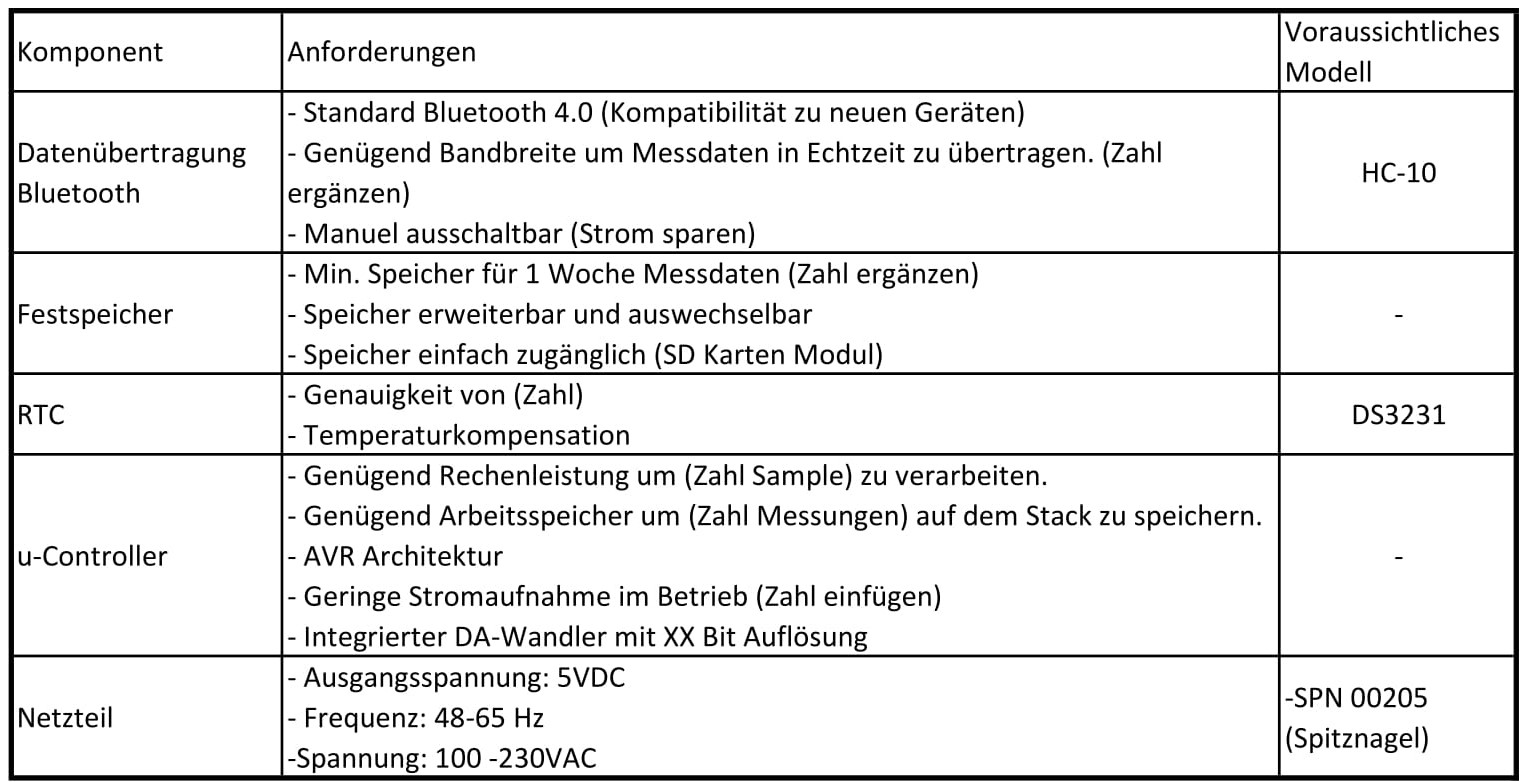
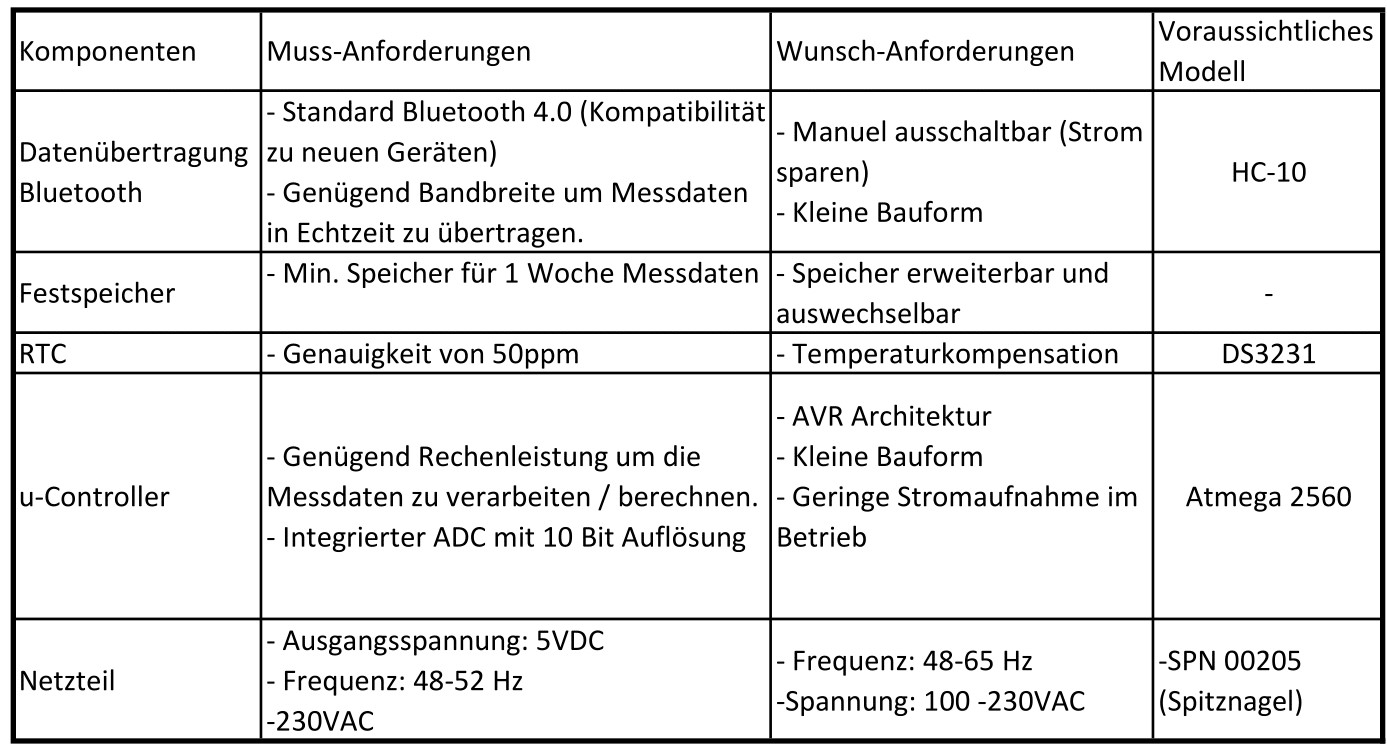
Pflichtenheft Textanpassung
Bild Komponenten
Rechtschreibung 1.0

diff --git a/Latech/Pfl.Heft.tex b/Latech/Pfl.Heft.tex
@@ -66,8 +66,9 @@ Der orange Rahmen stellt das Gehäuse des Gerätes dar, die weissen Felder stehe
 \item Durch ein Kunststoffgehäuse muss die Schutzart IP 20 gewährleistet werden.
 \item Wenn das Gerät nicht der Schutzklasse 2 entspricht muss eine Potenzialtrennung vorhanden sein.
 \item Die Messung muss für Û=325V und Î=15A (Netzspannung) ausgelegt sein.
+\item Messbereich bis 1A $\pm2W$; bis 10A $\pm 20W$
 \item Harmonische Schwingungen bis 5kHz müssen detektiert werden.
-\item Der Log Intervall der Leistung muss$\leq \ $10s sein.
+\item Der Log Intervall der Leistung muss $\leq \ $10s sein.
 
 \item Firmware für die Signalwandlung, Leistungsberechnung, Datenspeicherung und den Transfer zum Empfangsgerät.
 \item Es muss eine Software mitgeliefert werden, welche den Empfang und die Darstellung des Leistungsgerätes sicherstellt. 
@@ -81,24 +82,25 @@ Der orange Rahmen stellt das Gehäuse des Gerätes dar, die weissen Felder stehe
  \includegraphics[scale=0.45]{Komp-1.jpg}
 
 \subsection{Messung}
-Für die Spannungsmessung wird ein Spannungteiler mit dem Verhältnis 100 zu 0,75 benötigt. Die Spannung muss im Bereich von 0-5V liegen. Die Spannung über dem kleineren Widerstand ($\pm 2,42V$) über einen Addierer in den gewünschten Bereich verschoben.\\
+Für die Spannungsmessung wird ein Spannungteiler mit dem Verhältnis 100 zu 0,75 benötigt. Die Spannung muss im Bereich von 0-5V liegen. Die Spannung über dem kleineren Widerstand ($\pm 2,42V$) wird mit einem Addierer in den gewünschten Messbereich verschoben.\\
 Für die Strommessung wird ein Messshunt verwendet.
 \subsection{Messaufbereitung}
 \includegraphics[scale=0.9]{Block-Messung.png}\\
-Die Aufbereitung des Signals soll in drei Stufen erfolgen. In einem ersten Schritt soll das Signal mithilfe einer Instrument-Verstärkerschaltung auf maximal +/- 2.5V verstärkt werden. Danach wird im Addierer das Signal auf das Potential des Controllers gehoben. Dies wird mit einer Einkoppelung realisiert. Im Filter werden noch die unerwünschten Oberwellen oberhalb von 5kHz herausgefiltert. Da der Controller voraussichtlich eine 10 Bit Auflösung haben wird, wird der Messberiech in zwei Bereiche aufgeteilt, die entsprechend auf ihren Messbereich angepasst werden.
-
-\subsection{Datenübertragung}
-Für die Drahtlosübertragung werden wir ein Bluetoothmodul verwenden. Dafür bevorzugen wir im Moment das \glqq Seriell Protokoll Profil\grqq(SPP). Mit diesem Profil wird über Bluetooth eine serielle RS232 Schnittstelle aufgebaut, mit welcher wir mit maximal 115'200 bps erreichen können.\\ 
-Wenn wir somit die Daten übertragen, können wir bei einer maximalen Übertragungsdauer von zehn Sekunden maximal 20 Bit alle 10 Sekunden abspeichern. Zudem haben wir für die Lifeübertragung 45 Bit Daten alle 0,5 Millisekunden zu Verfügung. Dies sollte für unsere Anforderungen ausreichen.
-
-
+Die Aufbereitung des Signals soll in drei Stufen erfolgen. In einem ersten Schritt soll das Signal mithilfe einer Instrumenten-Verstärker auf maximal +/- 2.5V verstärkt werden. Danach wird im Addierer das Signal auf das Potential des Controllers gehoben. Dies wird mit einer Einkoppelung realisiert. Im Filter werden noch die unerwünschten Oberwellen oberhalb von 5kHz herausgefiltert. Da der Controller voraussichtlich eine 10 Bit Auflösung haben wird, wird der Messberiech in zwei Bereiche aufgeteilt, die entsprechend auf ihren Messbereich angepasst werden.
 \subsection{Datenspeicherung}
 Um Energiespitzen mit einer harmonischen Frequenz von 5kHz messen zu können, addieren wir den Energieverbrauch von 0.1ms über 10s auf und speichern diesen Wert im Festspeicher. Es sind immer die Daten der letzten sieben Tagen im Festspeicher vorhanden, welche über die Drahtlosschnittstelle ausgelesen werden können.
+
+\subsection{Datenübertragung}
+Für die Drahtlosübertragung werden wir ein Bluetoothmodul verwenden. Dafür bevorzugen wir im Moment das \glqq Seriell Protokoll Profil\grqq(SPP). Mit diesem Profil wird über Bluetooth eine serielle RS232 Schnittstelle aufgebaut, mit welcher wir maximal 115'200 bps erreichen können.\\ 
+Wenn wir somit die Daten der gespeicherten sieben Tage übertragen, können wir bei einer maximalen Übertragungsdauer von zehn Sekunden maximal 20 Bit alle 10 Sekunden im Festspeicher abspeichern. Zudem haben wir für die Lifeübertragung 45 Bit Daten alle 0,5 Millisekunden zu Verfügung. Dies sollte für unsere Anforderungen ausreichen.
+
+
+
 
 \subsection{Soft- und Firmware}
 Zur Visualisierung und Auswertung der Messdaten wird eine Software auf der Basis von Java entwickelt. Diese Software erlaubt es, sich mit dem Gerät zu Verbinden und die gespeicherten Messdaten abzurufen. Ausserdem erlaubt sie die Echtzeit-Visualisierung der Leistungsmessung. 
 \\
-Die Firmware des u-Controllers managt die Speicherung und den Austausch der Messdaten. Die Rohdaten der Messung werden im Stack zwischengespeichert und alle (Zahl ergänzen) gemittelt. Dieser Mittelwert wird zusammen mit einem Zeitstämpel im Festspeicher abgelegt. Beim Datenaustausch mit der PC-Software regelt die Firmware den Lese- und Schreibzugriff auf den Festspeicher und stellt die synchronität der Daten sicher. 
+Die Firmware des u-Controllers managet die Speicherung und den Austausch der Messdaten. Die Messdaten werden zusammen mit einem Zeitstempel im Festspeicher abgelegt. Beim Datenaustausch mit der PC-Software regelt die Firmware den Lese- und Schreibzugriff auf den Festspeicher und stellt die Synchronität der Daten sicher. 
 
 
 \end{document}
